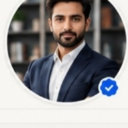
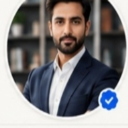
Update portfolio assets and profile presentation

diff --git a/view-profile.html b/view-profile.html
@@ -2,8 +2,8 @@
 *{box-sizing:border-box}body{margin:0;background:#000;color:#f8faff;font:14px Arial,sans-serif}.top{height:52px;background:#050505;border-bottom:1px solid #24344c;display:flex;align-items:center;gap:32px;padding:0 22px}.logo{font-size:21px;font-weight:800}.star{color:#b238ff}.nav{display:none!important}.search{margin-left:auto;background:#111d2d;border:1px solid #2d3e58;border-radius:8px;padding:9px 15px;color:#9ca9bc;width:210px}.follow,.book{background:linear-gradient(100deg,#8a2cff,#f24d99);color:white;border:0;border-radius:7px;padding:10px 18px;font-weight:bold}.wrap{max-width:1440px;margin:auto}.hero{height:500px;position:relative;overflow:hidden}.hero>img{width:100%;height:100%;object-fit:cover;object-position:center 22%;filter:brightness(.82)}.hero:after{content:"";position:absolute;inset:0;background:linear-gradient(0deg,#050b14 0,transparent 65%)}.info{position:absolute;z-index:2;left:28px;bottom:20px;display:flex;align-items:end;gap:18px}.avatar{width:130px;height:130px;border:3px solid #bf42ff;border-radius:50%;object-fit:cover}.info h1{font-size:29px;margin:0 0 8px}.info p{margin:6px 0}.stats{position:absolute;z-index:2;right:25px;bottom:52px;display:flex;gap:26px;text-align:center}.stats b{font-size:25px}.stats small{display:block}.actions{position:absolute;z-index:3;right:20px;bottom:12px;display:flex;gap:7px;background:#07111eee;padding:7px;border:1px solid #2c3e57;border-radius:8px}.actions a{border:1px solid #34465f;border-radius:6px;padding:9px 12px;font-size:11px}.actions a:first-child{background:linear-gradient(100deg,#8a2cff,#f24d99);border:0}.tabs{height:49px;border-bottom:1px solid #24344c;display:flex;justify-content:center;gap:45px;align-items:center;color:#a8b4c7;font-size:12px}.tabs .active{color:white;border-bottom:2px solid #d241ff;padding:17px 0 15px}.content{display:grid;grid-template-columns:1fr 250px;gap:16px;padding:15px 18px}.title{font-size:18px;margin:3px 0 13px}.filters{display:flex;gap:8px;margin-bottom:12px}.filters span{background:#111d2d;border:1px solid #25364f;padding:8px 14px;border-radius:18px;font-size:11px}.filters .on{background:linear-gradient(90deg,#8029ff,#c73cf4);border:0}.grid{display:grid;grid-template-columns:repeat(4,1fr);gap:8px}.card,.side,.box{border:1px solid #26374f;border-radius:7px;background:#080808;overflow:hidden}.card img{display:block;width:100%;height:245px;object-fit:cover}.card div{padding:8px}.card strong{display:block;font-size:12px}.card small{color:#a5b2c6}.side{padding:14px;height:max-content}.side h2{color:#b33cff;margin:0 0 5px}.side p,.service small{color:#a8b4c7}.service{border-top:1px solid #26374f;padding:12px 0}.service b{display:block}.side .book{width:100%;margin-top:11px}.wide{grid-column:1/-1;border-top:1px solid #1e3047;padding-top:15px}.brands{height:58px;border:1px solid #203047;border-radius:7px;display:flex;justify-content:space-around;align-items:center;font-weight:bold;font-size:16px}.reels{display:grid;grid-template-columns:repeat(6,1fr);gap:9px}.reel{height:145px;position:relative;border:1px solid #26374f;border-radius:7px;overflow:hidden}.reel img{width:100%;height:100%;object-fit:cover;filter:brightness(.7)}.reel span{position:absolute;bottom:8px;left:8px;font-weight:bold;font-size:11px}.boxes{display:grid;grid-template-columns:repeat(3,1fr);gap:9px}.box{padding:15px;min-height:120px}.box h3{margin:0 0 8px}.box p{color:#a7b3c6}.footer{max-width:1440px;border-top:1px solid #24344c;padding:25px 22px;display:flex;justify-content:space-between;color:#a7b3c6;font-size:11px}.footer strong{font-size:19px;color:white}@media(max-width:800px){.nav{display:none}.search{width:145px}.hero{height:445px}.info{left:15px;bottom:73px}.avatar{width:96px;height:96px}.info h1{font-size:22px}.stats{left:18px;right:auto;bottom:18px;gap:15px}.actions{left:15px;right:15px;justify-content:space-between}.actions a{padding:8px 7px}.content{grid-template-columns:1fr}.grid{grid-template-columns:repeat(2,1fr)}.reels{grid-template-columns:repeat(3,1fr)}.boxes{grid-template-columns:1fr}.tabs{justify-content:flex-start;overflow:auto;padding:0 18px;gap:18px}}
 </style><style>
 /* Final reference-alignment overrides */
-body{overflow-x:hidden}a{color:#f7f9ff;text-decoration:none}.top{padding:0 22px;background:#050505}.top .logo{color:#f7f9ff}.top .nav a{color:#f7f9ff}.top .nav a:hover{color:#cf43ff}.wrap{max-width:none;width:100%}.hero{height:500px}.content{max-width:1440px;margin:0 auto;padding:18px 24px}.footer{width:100%;max-width:none}.footer.wrap{padding-left:24px;padding-right:24px}.tabs{gap:52px}.stats{bottom:112px}.actions{bottom:18px}.card img{height:215px}.side{position:sticky;top:12px}
-@media(max-width:800px){.hero{height:405px}.content{padding:14px}.stats{bottom:62px}.footer{flex-wrap:wrap;gap:18px}.top{gap:14px}.top .search{margin-left:auto}.top .nav{display:none}.card img{height:170px}}
+body{overflow-x:hidden}a{color:#f7f9ff;text-decoration:none}.top{padding:0 22px;background:#050505}.top .logo{color:#f7f9ff}.top .nav a{color:#f7f9ff}.top .nav a:hover{color:#cf43ff}.wrap{max-width:none;width:100%}.hero{height:500px}.content{max-width:1440px;margin:0 auto;padding:18px 24px}.footer{width:100%;max-width:none}.footer.wrap{padding-left:24px;padding-right:24px}.tabs{gap:52px}.stats{bottom:112px}.actions{bottom:18px}.card img{height:215px}.side{position:fixed;top:120px;right:max(24px,calc((100vw - 1440px)/2 + 24px));width:250px;z-index:20;align-self:start}
+@media(max-width:800px){.side{position:static;width:auto}.hero{height:405px}.content{padding:14px}.stats{bottom:62px}.footer{flex-wrap:wrap;gap:18px}.top{gap:14px}.top .search{margin-left:auto}.top .nav{display:none}.card img{height:170px}}
 </style><style>
 .card img,.reel img{object-position:center 22%}.card,.reel{cursor:pointer}.toast{position:fixed;z-index:99;left:50%;bottom:28px;transform:translateX(-50%) translateY(80px);background:#101c2d;border:1px solid #a93dff;color:#fff;padding:12px 18px;border-radius:8px;font-weight:700;transition:.25s}.toast.show{transform:translateX(-50%) translateY(0)}
 .back{font-size:12px;font-weight:700;color:#fff;padding:8px 10px;border:1px solid #333;border-radius:6px}.back:hover{border-color:#b238ff;color:#d462ff}</style><script>

diff --git a/portfolio.html b/portfolio.html
@@ -98,7 +98,7 @@
 
           </button>
 
-<a class="inline-flex items-center justify-center bg-surface-container-high text-on-surface font-mono-technical text-mono-technical uppercase px-space-lg py-space-md tracking-wider hover:bg-primary hover:text-on-primary transition-all shadow-sm" href="#discovery-section">
+<a class="inline-flex items-center justify-center bg-surface-container-high text-on-surface font-mono-technical text-mono-technical uppercase px-space-lg py-space-md tracking-wider hover:bg-primary hover:text-on-primary transition-all shadow-sm" href="showcase.html">
 
             [ EXPLORE TALENT → ]
 
@@ -206,7 +206,7 @@
 
 </div>
 
-<button class="font-mono-technical text-mono-technical text-secondary hover:underline cursor-pointer uppercase" onclick="openPortfolioModal()">
+            <button class="font-mono-technical text-mono-technical text-secondary hover:underline cursor-pointer uppercase" onclick="window.location.href='view-profile.html'">
 
               [ VIEW FILE → ]
 
@@ -898,7 +898,7 @@
       <div class="flex flex-col sm:flex-row items-start sm:items-center gap-5">
         <!-- Avatar with verified badge -->
         <a href="arjun-profile.html" class="relative shrink-0 block group" title="View Arjun Mehta Profile">
-          <img src="assets/arjun_avatar_hd.png" alt="Arjun Mehta" class="w-24 h-24 sm:w-28 sm:h-28 rounded-full object-cover border-2 border-[#e5e7eb] shadow-md group-hover:ring-2 group-hover:ring-[#2563eb] transition">
+          <img src="assets/arjun_avatar.png" alt="Arjun Mehta" class="w-24 h-24 sm:w-28 sm:h-28 rounded-full object-contain object-center border-2 border-[#e5e7eb] shadow-md group-hover:ring-2 group-hover:ring-[#2563eb] transition">
           <div class="absolute bottom-0.5 right-0.5 w-7 h-7 bg-[#1a68ff] rounded-full border-2 border-white flex items-center justify-center text-white text-xs shadow-md z-10">
             <svg class="w-3.5 h-3.5 fill-current" viewBox="0 0 20 20"><path fill-rule="evenodd" d="M16.707 5.293a1 1 0 010 1.414l-8 8a1 1 0 01-1.414 0l-4-4a1 1 0 011.414-1.414L8 12.586l7.293-7.293a1 1 0 011.414 0z" clip-rule="evenodd"></path></svg>
           </div>
@@ -1073,7 +1073,7 @@
       <!-- Card 1: NOVA AI -->
       <div class="bg-white rounded-xl overflow-hidden border border-[#e5e7eb] shadow-[0_2px_8px_rgba(0,0,0,0.04)] hover:shadow-md transition group">
         <div class="relative h-28 bg-[#090d16] overflow-hidden">
-          <img src="assets/arjun_nova.png" alt="Nova AI" class="w-full h-full object-cover group-hover:scale-105 transition duration-300">
+          <img src="assets/portfolio-nova.png" alt="Nova AI" class="w-full h-full object-cover group-hover:scale-105 transition duration-300">
         </div>
         <div class="p-3.5 space-y-2">
           <p class="text-xs font-semibold text-[#1e293b] leading-tight">AI Copilots for Enterprise</p>
@@ -1093,7 +1093,7 @@
       <!-- Card 2: OrbitX -->
       <div class="bg-white rounded-xl overflow-hidden border border-[#e5e7eb] shadow-[0_2px_8px_rgba(0,0,0,0.04)] hover:shadow-md transition group">
         <div class="relative h-28 bg-[#090d16] overflow-hidden">
-          <img src="assets/arjun_orbit.png" alt="OrbitX" class="w-full h-full object-cover group-hover:scale-105 transition duration-300">
+          <img src="assets/portfolio-orbitx.png" alt="OrbitX" class="w-full h-full object-cover group-hover:scale-105 transition duration-300">
         </div>
         <div class="p-3.5 space-y-2">
           <p class="text-xs font-semibold text-[#1e293b] leading-tight">Space Situational Intelligence</p>
@@ -1113,7 +1113,7 @@
       <!-- Card 3: Finverse -->
       <div class="bg-white rounded-xl overflow-hidden border border-[#e5e7eb] shadow-[0_2px_8px_rgba(0,0,0,0.04)] hover:shadow-md transition group">
         <div class="relative h-28 bg-[#090d16] overflow-hidden">
-          <img src="assets/arjun_finverse.png" alt="Finverse" class="w-full h-full object-cover group-hover:scale-105 transition duration-300">
+          <img src="assets/portfolio-finverse.png" alt="Finverse" class="w-full h-full object-cover group-hover:scale-105 transition duration-300">
         </div>
         <div class="p-3.5 space-y-2">
           <p class="text-xs font-semibold text-[#1e293b] leading-tight">Digital Banking Infrastructure</p>
@@ -1133,7 +1133,7 @@
       <!-- Card 4: GridOS -->
       <div class="bg-white rounded-xl overflow-hidden border border-[#e5e7eb] shadow-[0_2px_8px_rgba(0,0,0,0.04)] hover:shadow-md transition group">
         <div class="relative h-28 bg-[#090d16] overflow-hidden">
-          <img src="assets/arjun_gridos.png" alt="GridOS" class="w-full h-full object-cover group-hover:scale-105 transition duration-300">
+          <img src="assets/portfolio-gridos.png" alt="GridOS" class="w-full h-full object-cover group-hover:scale-105 transition duration-300">
         </div>
         <div class="p-3.5 space-y-2">
           <p class="text-xs font-semibold text-[#1e293b] leading-tight">AI Optimization for Energy Grids</p>
@@ -2726,7 +2726,7 @@
   .arjun-ss1>div{max-width:1570px!important}
   .arjun-ss1 .rounded-2xl{border-radius:14px}
   .arjun-ss1 a.relative img{width:140px!important;height:140px!important;object-position:center}
-  .arjun-ss1 a.relative>div{right:-2px!important;bottom:-2px!important}
+  .arjun-ss1 a.relative>div{display:none!important}
   .arjun-ss1 .grid.grid-cols-4{column-gap:0!important}
   .arjun-ss1 .grid.grid-cols-4>div+div{border-left:1px solid #dce3ec;padding-left:22px}
   .arjun-ss1 .grid.grid-cols-4>div{min-width:108px}

diff --git a/showcase.html b/showcase.html
@@ -784,12 +784,12 @@
         <!-- Panoramic Sunset Banner: SHOWCASE. CREATE. CONNECT. -->
         <div class="relative rounded-2xl overflow-hidden shadow-2xl min-h-[220px] md:min-h-[260px] flex items-center bg-[#0a0f1d]">
           <!-- Clean Background Image without baked text -->
-          <img src="assets/ss1_sunset_panorama_clean.png" alt="Showcase Create Connect" class="absolute inset-0 w-full h-full object-cover object-right md:object-center"/>
+          <img src="assets/showcase-hero-ss2.png" alt="Showcase Create Connect" class="absolute inset-0 w-full h-full object-cover object-right md:object-center"/>
           <!-- Subtle Dark Gradient on left for crystal-clear readability -->
-          <div class="absolute inset-0 bg-gradient-to-r from-[#0a0f1d]/95 via-[#0a0f1d]/60 to-transparent"></div>
+          <div class="hidden absolute inset-0 bg-gradient-to-r from-[#0a0f1d]/95 via-[#0a0f1d]/60 to-transparent"></div>
 
           <!-- Banner Content -->
-          <div class="relative z-10 p-6 md:p-10 lg:p-12 max-w-2xl text-white">
+          <div class="hidden relative z-10 p-6 md:p-10 lg:p-12 max-w-2xl text-white">
             <h2 class="font-display text-2xl sm:text-3xl md:text-4xl lg:text-[40px] font-bold tracking-tight uppercase leading-tight">
               SHOWCASE. CREATE. CONNECT.
             </h2>

diff --git a/about.html b/about.html
@@ -27,7 +27,7 @@
     <div class="grid grid-cols-1 lg:grid-cols-12 gap-10 lg:gap-14 items-start">
       
       <!-- Left Column: Editorial Headline -->
-      <div class="lg:col-span-6 flex flex-col justify-start">
+      <div class="lg:col-span-6 flex flex-col justify-start text-center">
         <span class="font-label-sm text-label-sm uppercase tracking-widest text-secondary font-mono mb-3 lg:mb-5 font-semibold">WHO IS CELEBSO X?</span>
         <h1 class="font-display-lg text-4xl sm:text-5xl lg:text-[3.5rem] xl:text-[4rem] text-primary tracking-tight leading-[1.06] uppercase font-normal">
           A PLATFORM<br/>
@@ -95,8 +95,8 @@
       </div>
 
       <!-- Right Column: Vertical Blue Divider + Core Axiom Quote + Metadata -->
-      <div class="lg:col-span-6 border-l-2 border-secondary pl-8 lg:pl-12 xl:pl-16 flex flex-col justify-between">
-        <div>
+      <div class="lg:col-span-6 border-l-2 border-secondary pl-8 lg:pl-12 xl:pl-16 flex flex-col justify-between text-center">
+        <div class="pt-10">
           <div class="font-mono text-xs uppercase tracking-widest text-secondary font-semibold mb-6">
             CORE AXIOM
           </div>
